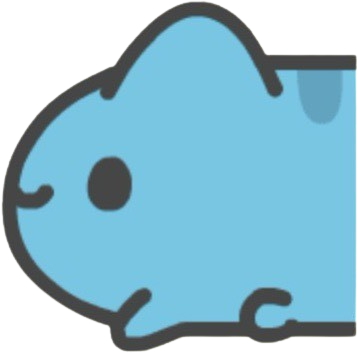
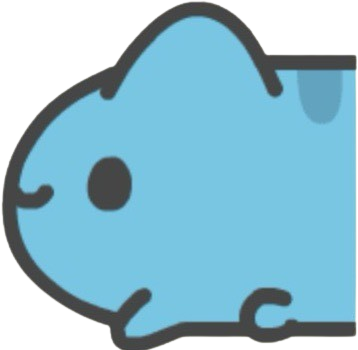
addbodyandtail

diff --git a/index.html b/index.html
@@ -3,7 +3,7 @@
 <head>
     <meta charset="UTF-8">
     <meta name="viewport" content="width=device-width, initial-scale=1.0, maximum-scale=1.0, user-select=no">
-    <title>16x16 經典貪吃蛇（蛇頭旋轉版）</title>
+    <title>16x16 經典貪吃蛇（身尾轉向修正版）</title>
     <style>
         body {
             font-family: 'Segoe UI', Tahoma, Geneva, Verdana, sans-serif;
@@ -53,37 +53,35 @@
         }
 
         .cell {
-            background-color: #2d3748;
+            background-color: #000000;
         }
 
-        .snake {
-            background-color: #41d5e8;
-            border-radius: 4px;
-        }
-
-        /* 💡 基礎蛇頭樣式 */
-        .snake-head {
-            background-image: url('c.png');
+        /* 統一全圖片基礎樣式 */
+        .snake-head, .snake, .snake-tail {
             background-size: contain;
             background-repeat: no-repeat;
             background-position: center;
             background-color: transparent;
         }
 
-        .snake-head.dir-left {
+        .snake-head { background-image: url('c.png'); }
+        .snake      { background-image: url('b.png'); }
+        .snake-tail { background-image: url('tttt.png'); }
+
+        /* 你的完美旋轉設定 */
+        .dir-left {
             transform: rotate(0deg);
         }
 
-        .snake-head.dir-up {
+        .dir-up {
            transform: rotate(90deg);
-
         }
 
-        .snake-head.dir-right {
+        .dir-right {
             transform: scaleX(-1);
         }
 
-        .snake-head.dir-down {
+        .dir-down {
             transform: rotate(-90deg);
         }
 
@@ -207,22 +205,43 @@
             }
         }
 
-        // 💡 渲染畫面：動態注入方向 class
         function draw() {
             const cells = document.querySelectorAll('.cell');
             cells.forEach(cell => { cell.className = 'cell'; });
 
             snake.forEach((segment, index) => {
                 const cellIndex = segment.y * BOARD_SIZE + segment.x;
-                if (cells[cellIndex]) {
-                    if (index === 0) {
-                        // 如果是蛇頭，除了加 snake-head，還要根據當前 direction 加上對應的 class
-                        cells[cellIndex].classList.add('snake-head');
-                        cells[cellIndex].classList.add(`dir-${direction.toLowerCase()}`);
+                if (!cells[cellIndex]) return;
+
+                let segmentDir = 'right';
+
+                if (index === 0) {
+                    // 1. 蛇頭
+                    cells[cellIndex].classList.add('snake-head');
+                    segmentDir = direction.toLowerCase();
+                } else {
+                    // 2. 身體與尾巴方向推算
+                    const prevSegment = snake[index - 1];
+                    
+                    if (prevSegment.x < segment.x) segmentDir = 'left';
+                    else if (prevSegment.x > segment.x) segmentDir = 'right';
+                    else if (prevSegment.y < segment.y) segmentDir = 'up';
+                    else if (prevSegment.y > segment.y) segmentDir = 'down';
+
+                    if (index === snake.length - 1) {
+                        cells[cellIndex].classList.add('snake-tail');
+                        // 💡 關鍵修正：尾巴的方向要跟前進方向相反（也就是跟原計算反轉 180 度）
+                        if (segmentDir === 'left') segmentDir = 'right';
+                        else if (segmentDir === 'right') segmentDir = 'left';
+                        else if (segmentDir === 'up') segmentDir = 'down';
+                        else if (segmentDir === 'down') segmentDir = 'up';
                     } else {
                         cells[cellIndex].classList.add('snake');
                     }
                 }
+
+                // 套用旋轉
+                cells[cellIndex].classList.add(`dir-${segmentDir}`);
             });
 
             const foodIndex = food.y * BOARD_SIZE + food.x;